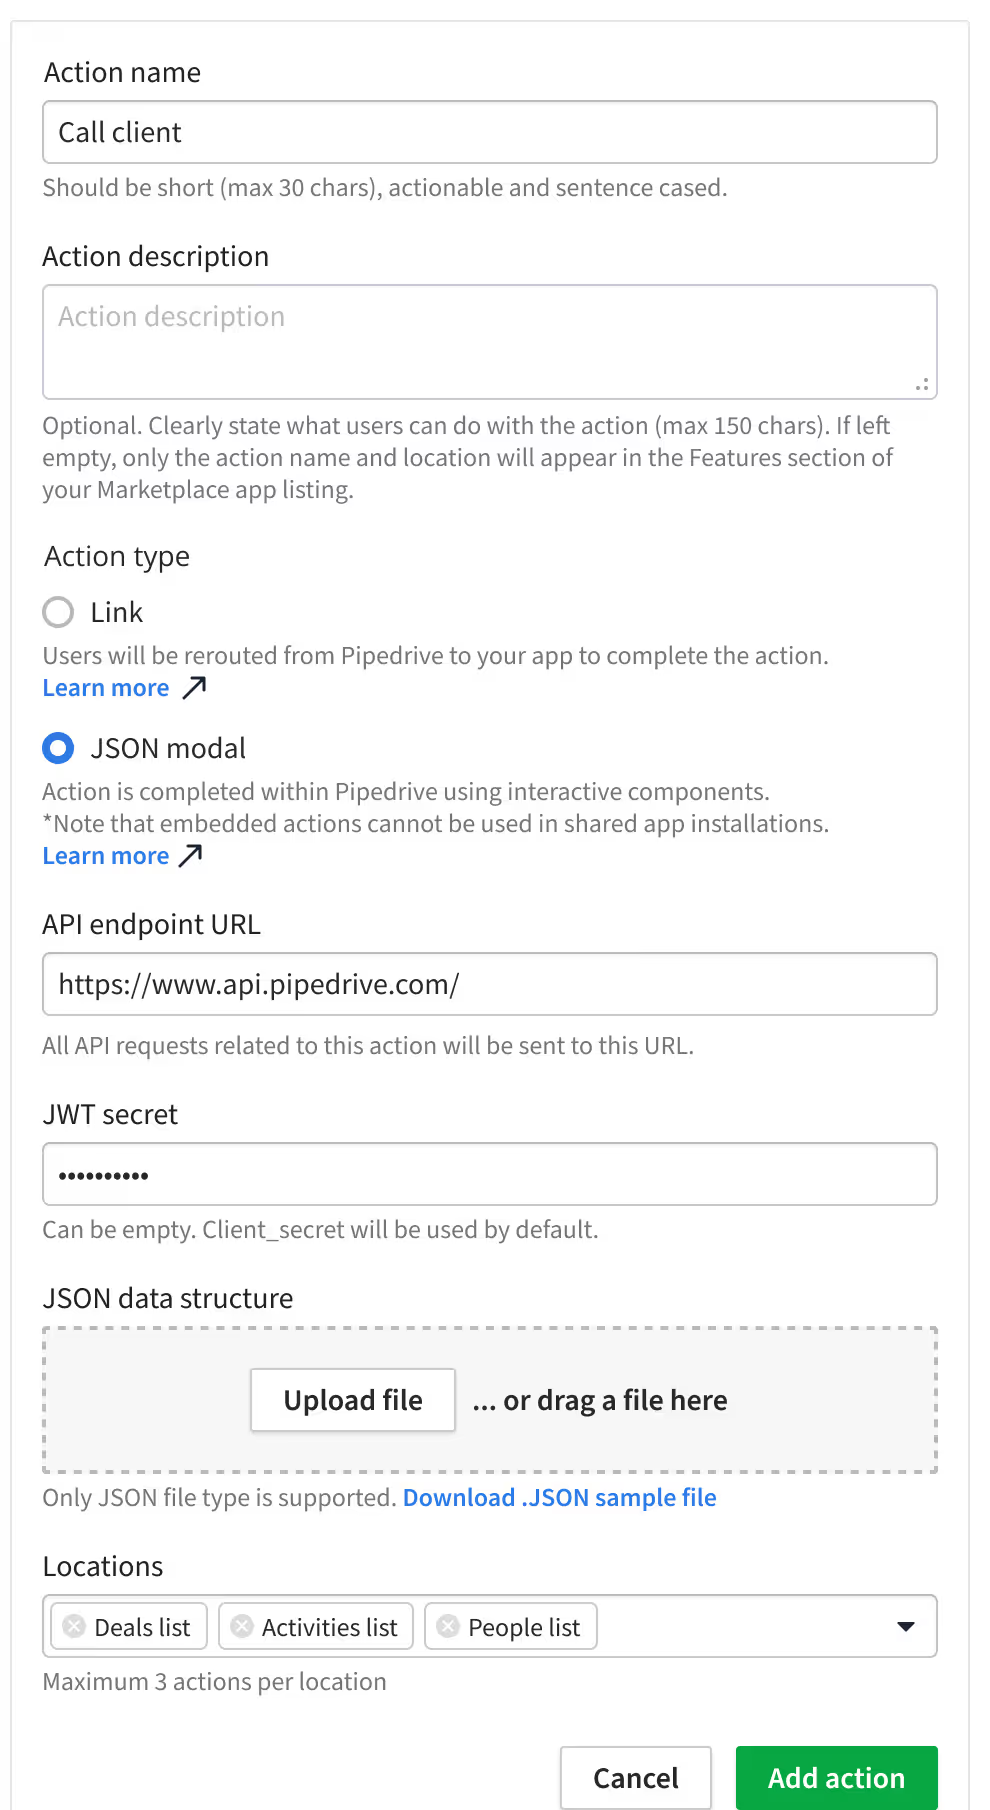
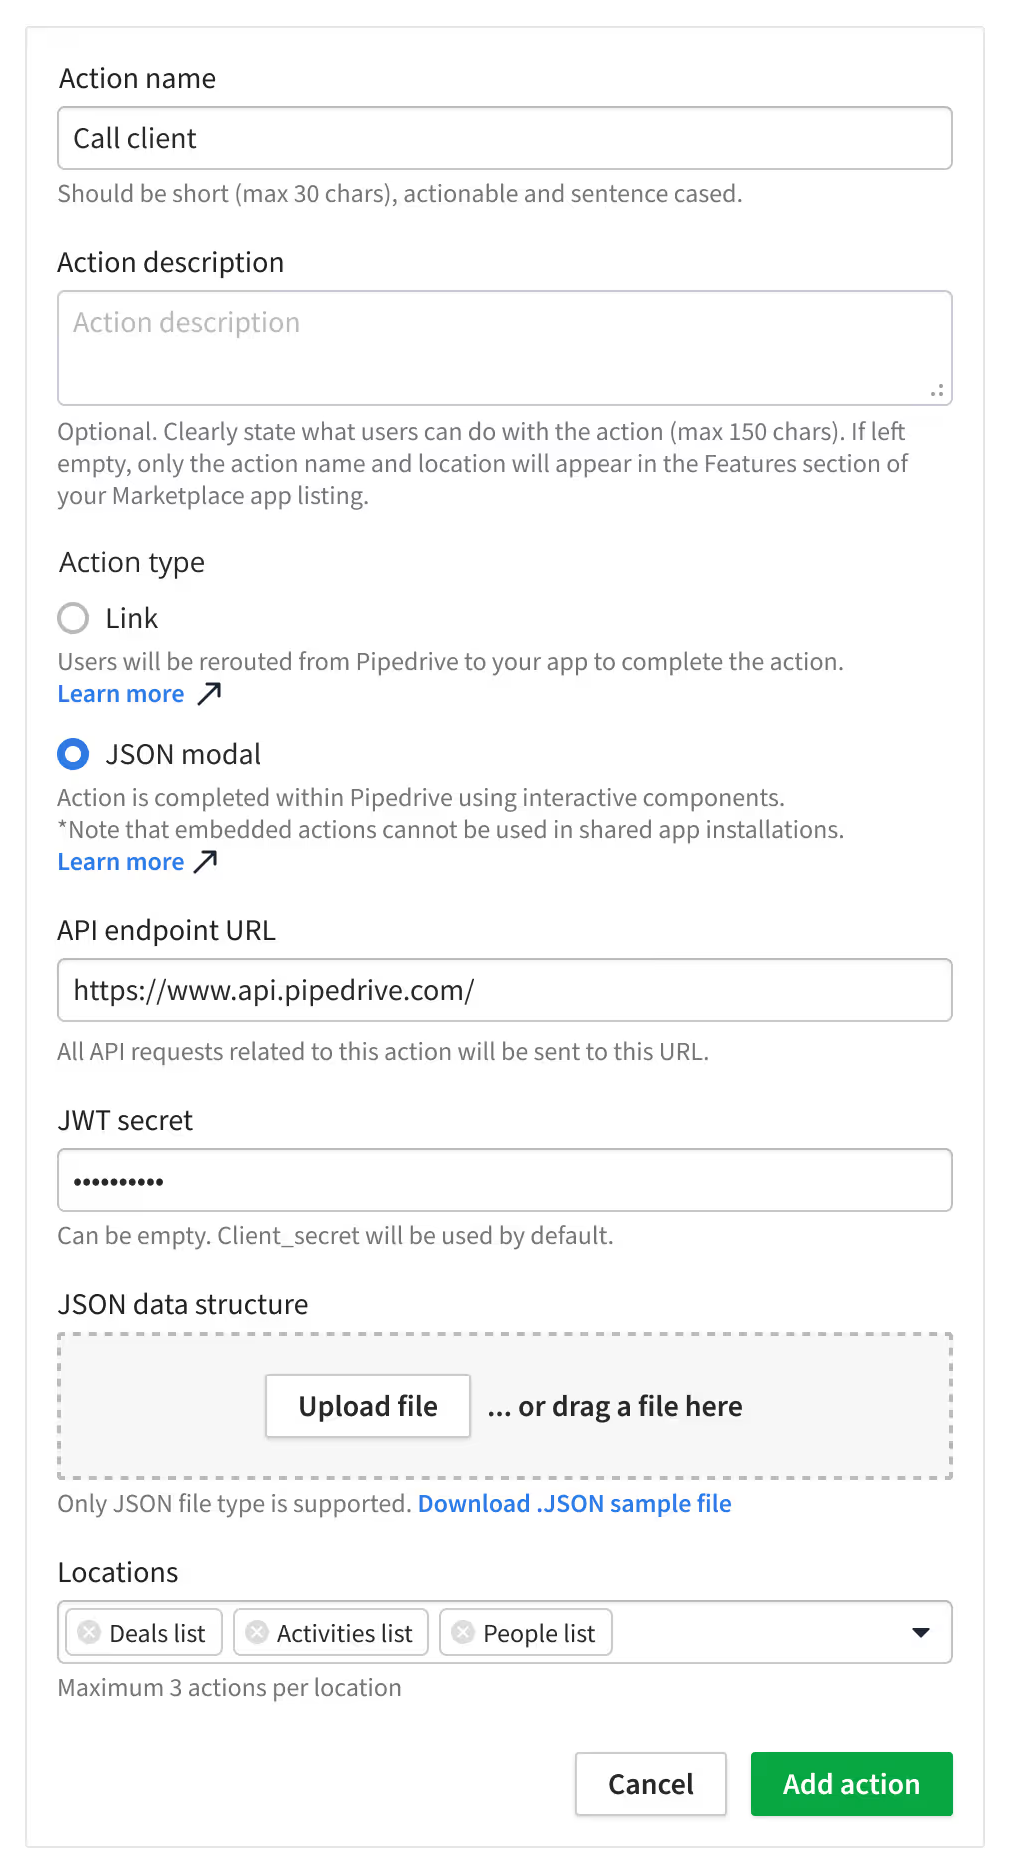
App Management: Rock's answers, two link buttons, fixed form crops
- Year 2021 (subtitle and homepage card), tools Figma and Miro.
- Role: Senior Product Designer, leading the design for the integrations area.
- Shipped in 2021. Removed the "no numbers" lines.
- The JSON check: the engineers came up with it during testing, after errors from badly formatted JSON files.
- Two buttons under the summary: the app extensions docs and the Pipedrive developer site.
- Decision 1: developers can start from the technology or the place in Pipedrive.
- Decision 2: rewritten to say why the drawings help (a hint of where the extension appears).
- The four form pictures are cropped again from the original image, with the same white margin, so no form is cut at the edge. They share one width and scale, so text keeps its size between tabs.
- Removed the old CI screenshots of this page, so CI makes new ones.

diff --git a/tests/case-app-management.spec.ts b/tests/case-app-management.spec.ts
@@ -3,15 +3,20 @@ import { test, expect } from '@playwright/test';
 // The Pipedrive App Management case study (Figma frame 455:523), on the case study template.
 const PAGE = '/project/pipedrive---app-management';
 
-test('summary: title, subtitle, facts, problem, decision, result, and no buttons', async ({ page }) => {
+test('summary: title, subtitle, facts, problem, decision, result, and two link buttons', async ({ page }) => {
   await page.goto(PAGE);
   const s = page.locator('[data-case-summary]');
   await expect(s.locator('h1')).toHaveText('App Management');
-  await expect(s.locator('.sub')).toHaveText('Pipedrive · 20NN · developer platform');
+  await expect(s.locator('.sub')).toHaveText('Pipedrive · 2021 · developer platform');
   await expect(s.locator('[data-facts] dt')).toHaveText(['role', 'context', 'made', 'tools']);
   await expect(s.locator('[data-pdr] > div')).toHaveCount(3);
-  // No public link yet
-  await expect(s.locator('[data-case-links]')).toHaveCount(0);
+  await expect(s.locator('[data-facts] dd').last()).toHaveText('Figma, Miro');
+  // The public docs for this project, then the developer site
+  const links = s.locator('[data-case-links] a');
+  await expect(links).toHaveText(['App extensions docs ↗', 'Pipedrive developer site ↗']);
+  await expect(links.nth(0)).toHaveAttribute('href', 'https://pipedrive.readme.io/docs/app-extensions-json-panels');
+  await expect(links.nth(1)).toHaveAttribute('href', 'https://developers.pipedrive.com/');
+  await expect(s).not.toContainText('No numbers');
 });
 
 test('summary is in the first screen on desktop', async ({ page, viewport }) => {
